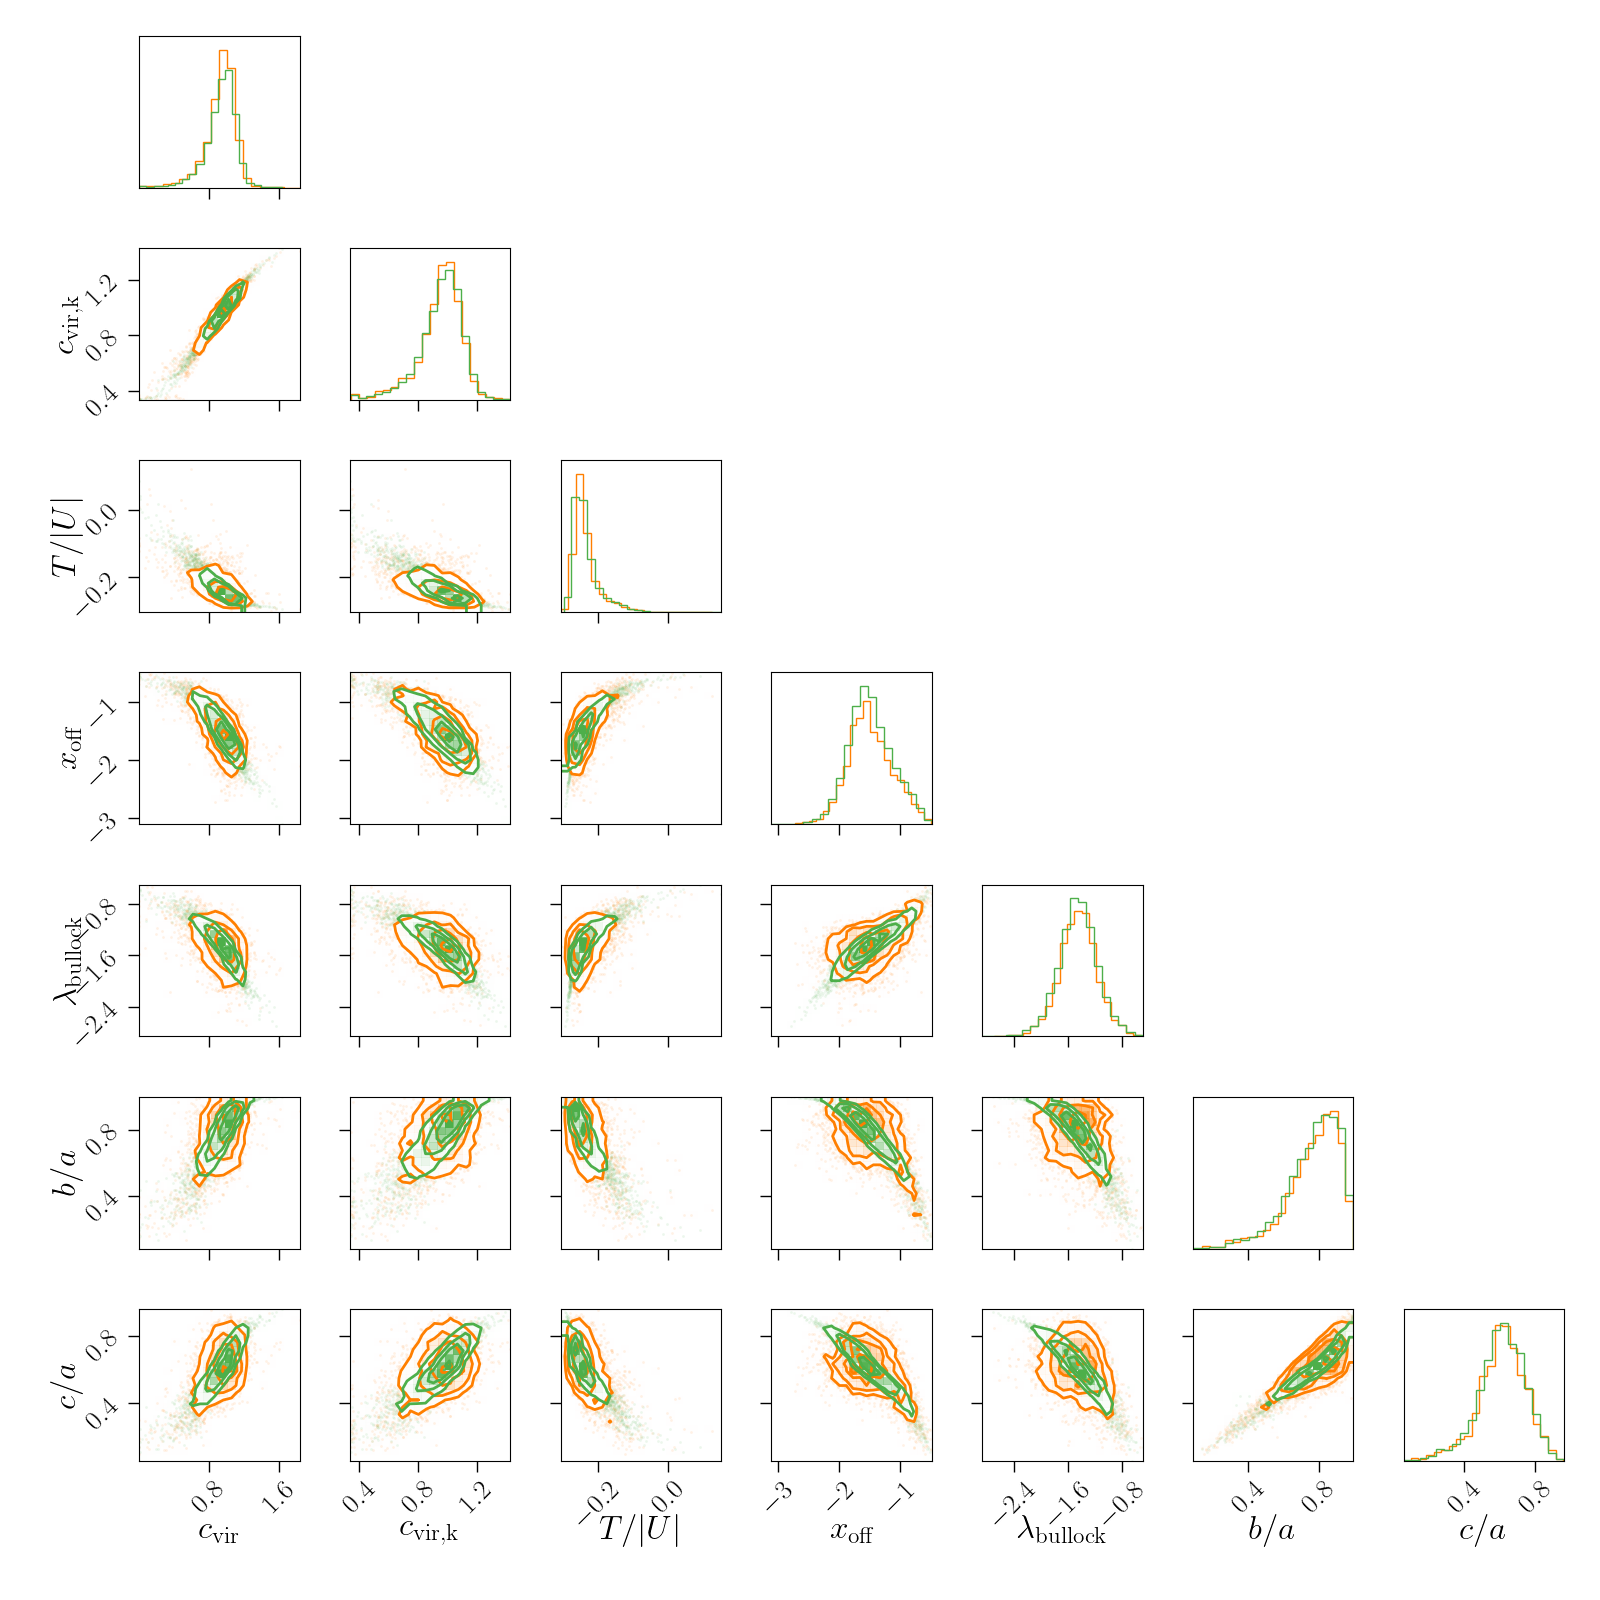
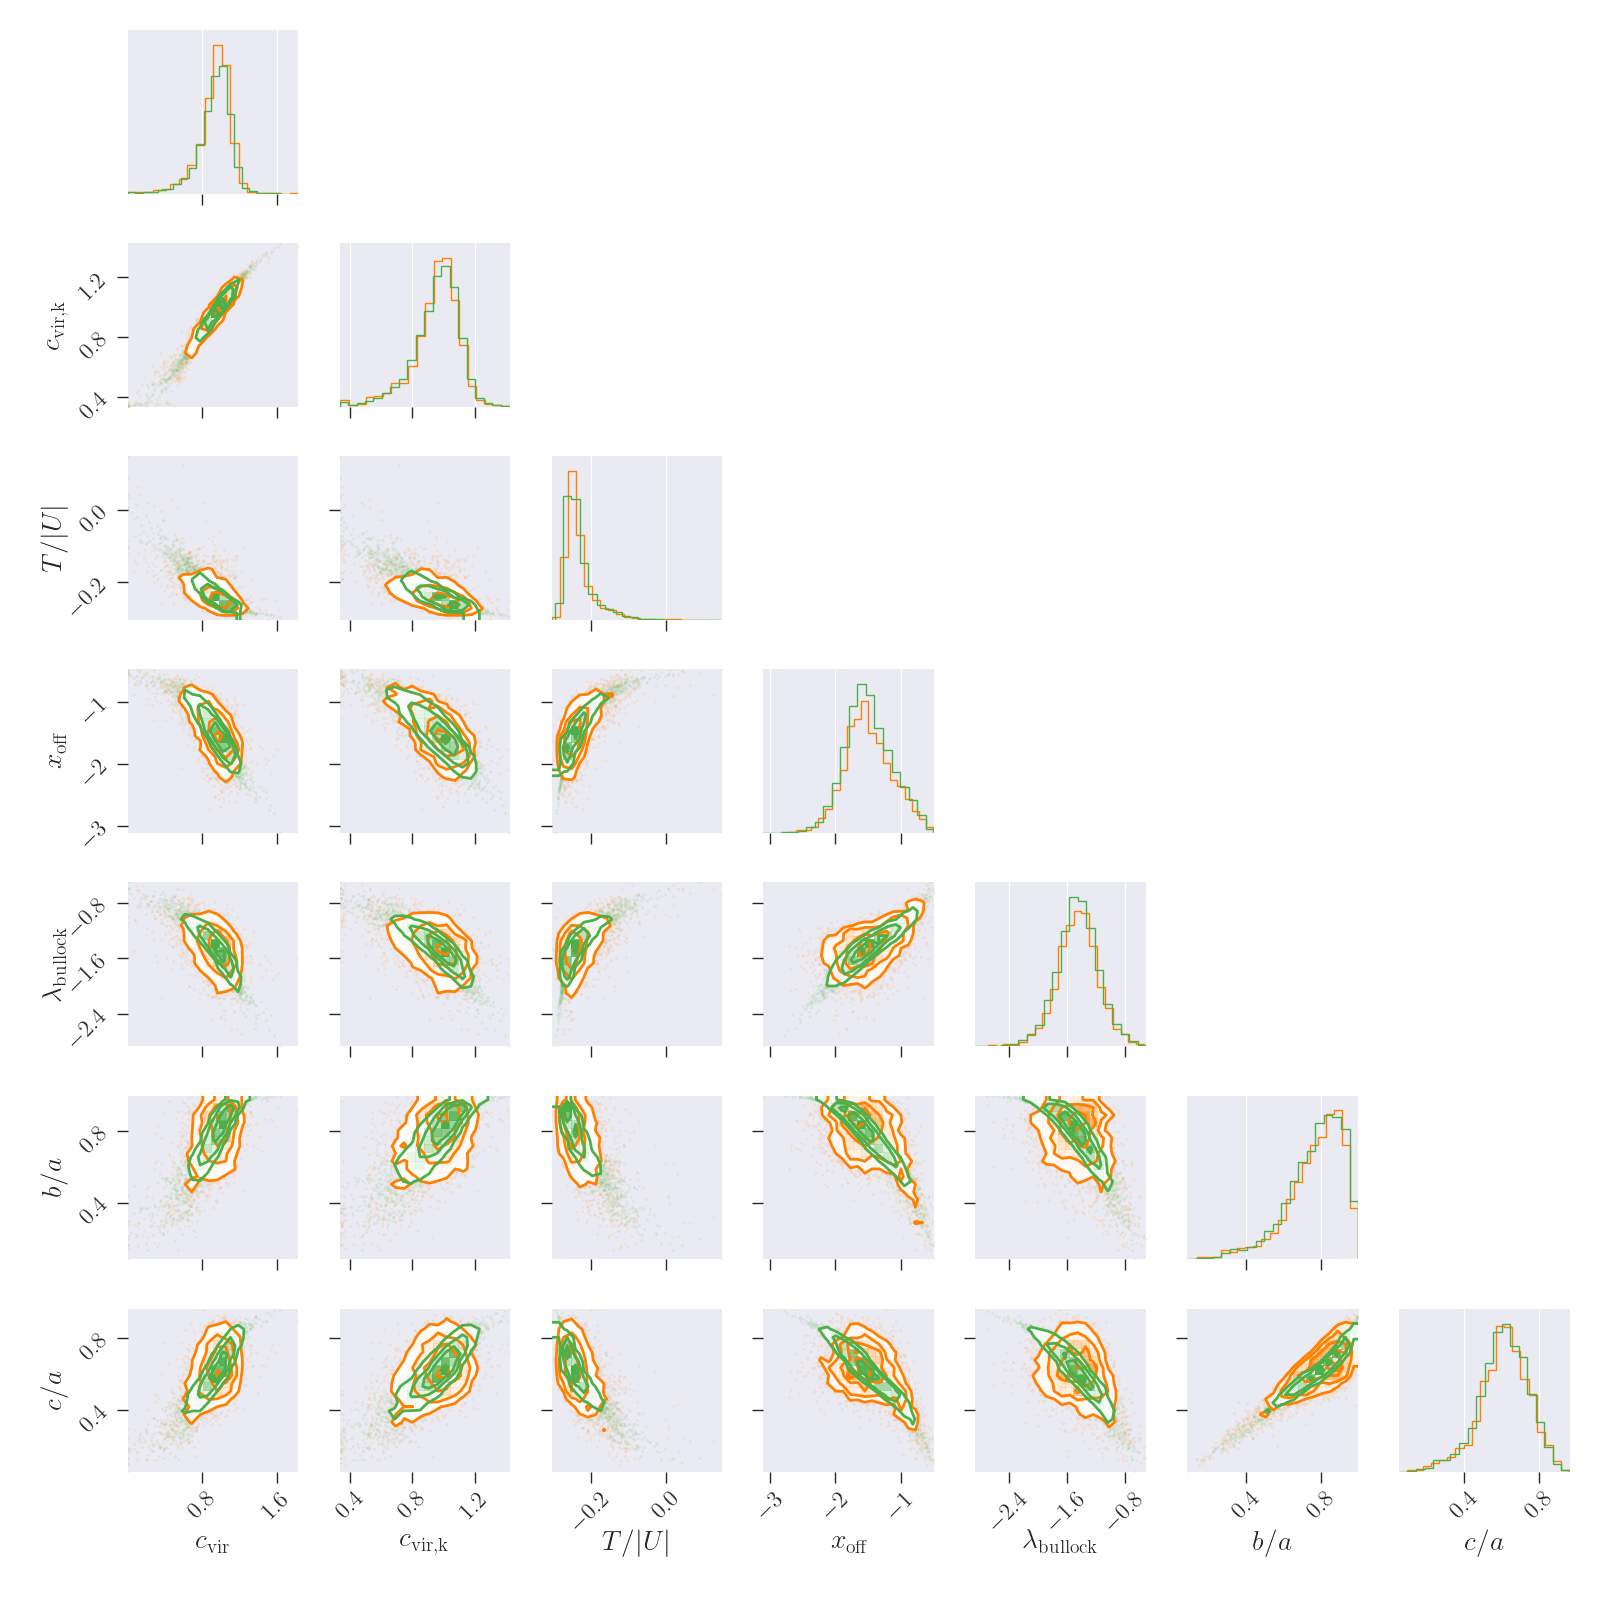
dark grid added :) (#110)
* dark grid added :)

* small change but everythign stayed the same

diff --git a/relaxed/plotting.py b/relaxed/plotting.py
@@ -1,4 +1,5 @@
 import matplotlib as mpl
+import matplotlib.pyplot as plt
 import numpy as np
 
 
@@ -60,6 +61,7 @@ def set_rc(
     lgsize="small",
 ):
     # relative to fontsize options: 'xx-small', 'x-small', 'small', 'medium', 'large', 'x-large'
+    plt.style.use("seaborn-darkgrid")
     rc_params = {
         # figure
         "figure.figsize": figsize,  # default single axis
@@ -93,10 +95,15 @@ def set_rc(
         # colors
         "axes.prop_cycle": mpl.cycler(color=CB_COLORS),
         # images
-        "image.cmap": "bwr",
+        "image.cmap": "Greys",
+        "image.interpolation": None,
         # legend
         "legend.loc": lgloc,
         "legend.fontsize": lgsize,
+        "legend.frameon": True,
+        "legend.framealpha": 0.8,
+        "legend.facecolor": "white",
+        "legend.edgecolor": "gray",
         # figures
         "figure.autolayout": True,  # same as 'tight_layout'
     }
